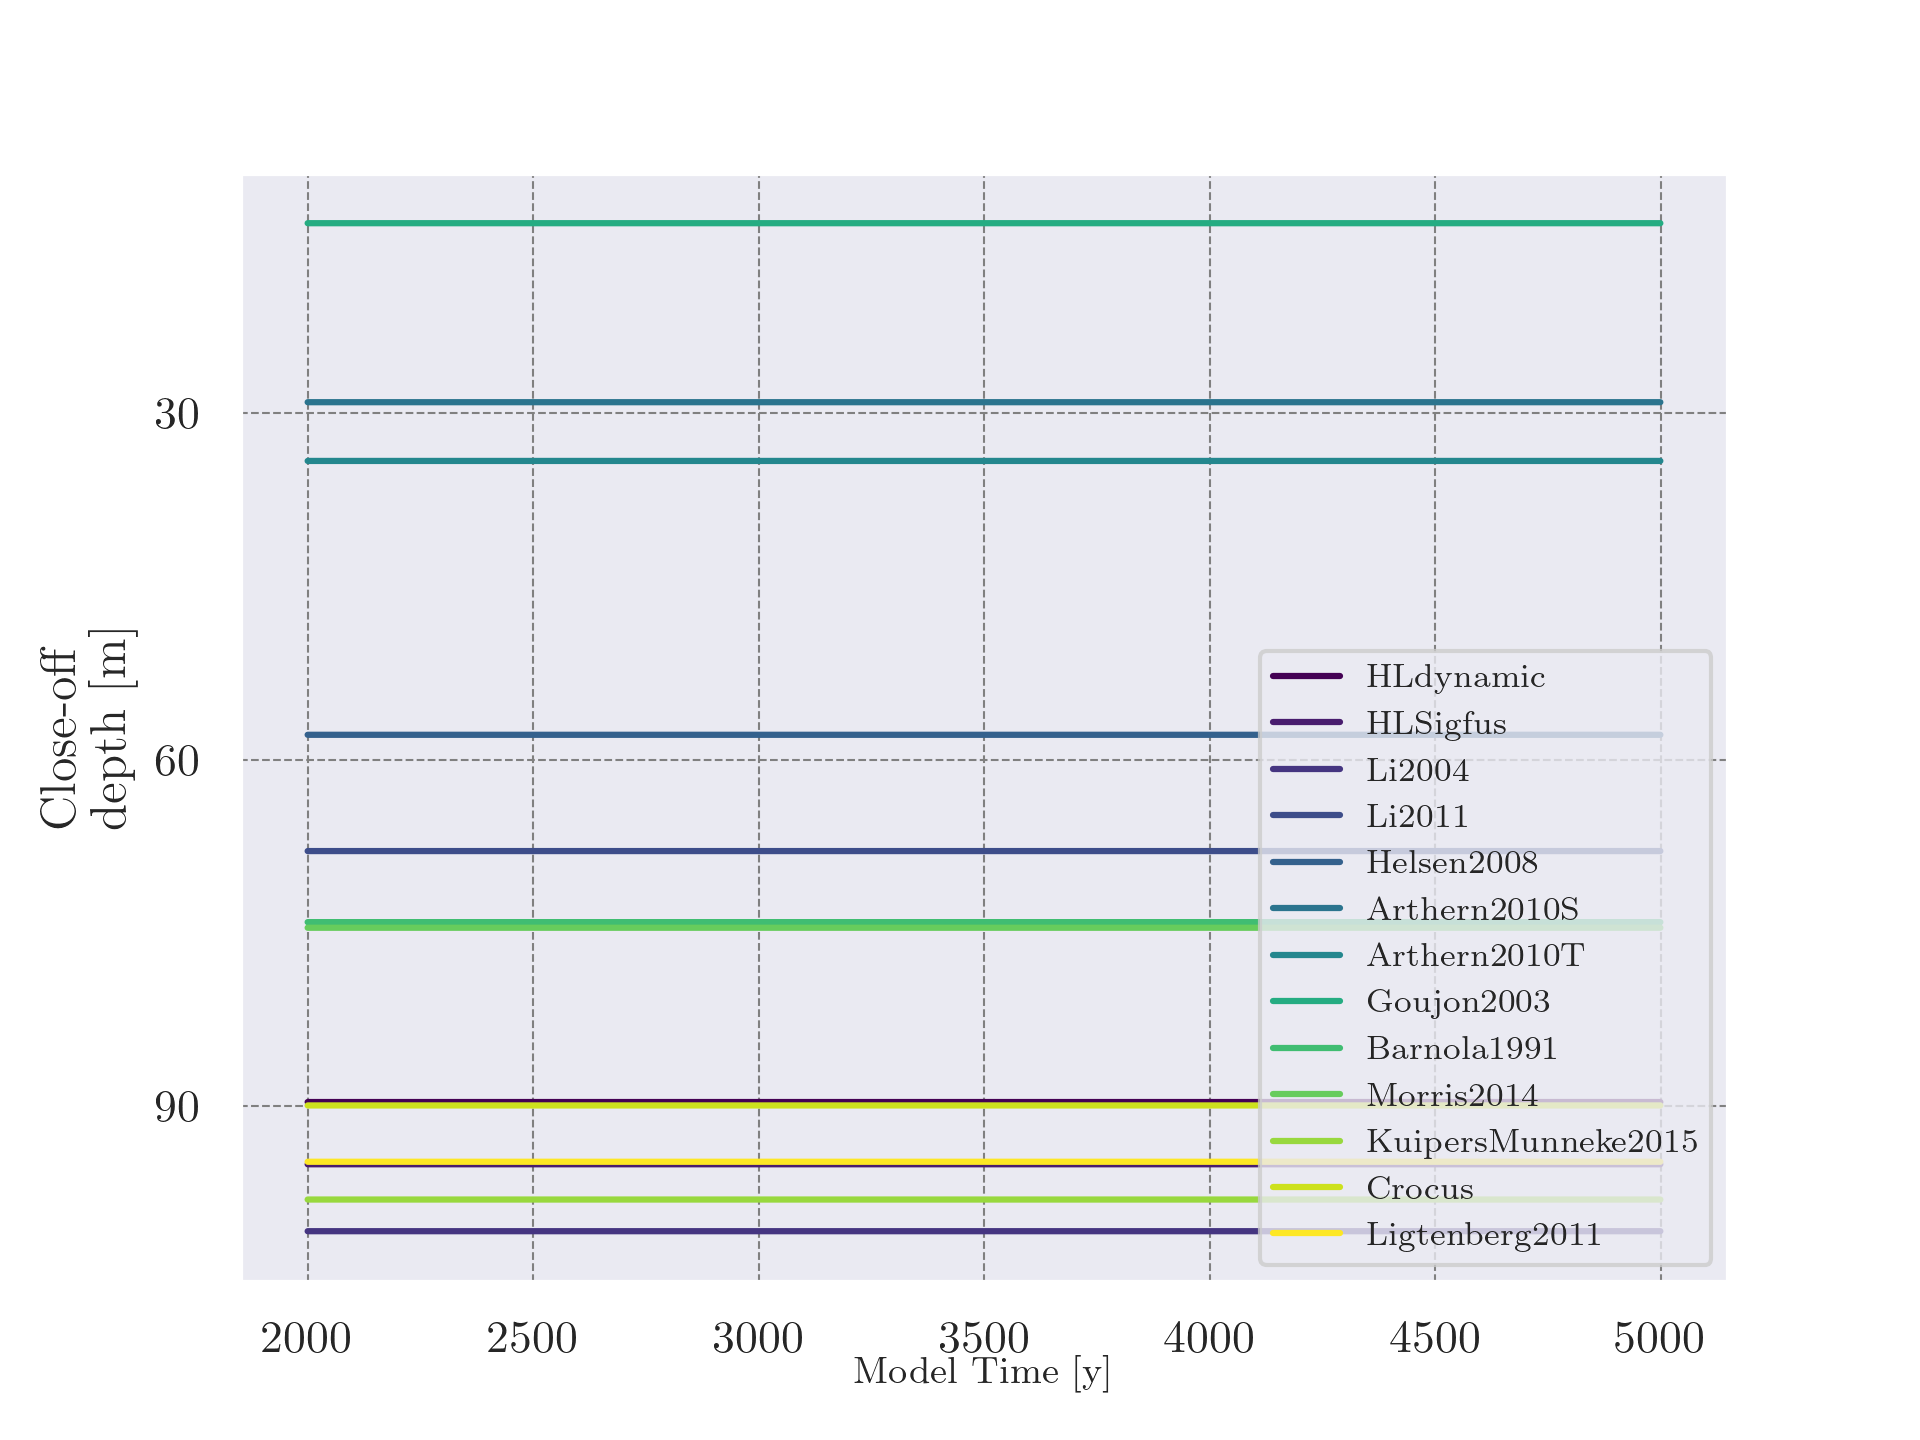
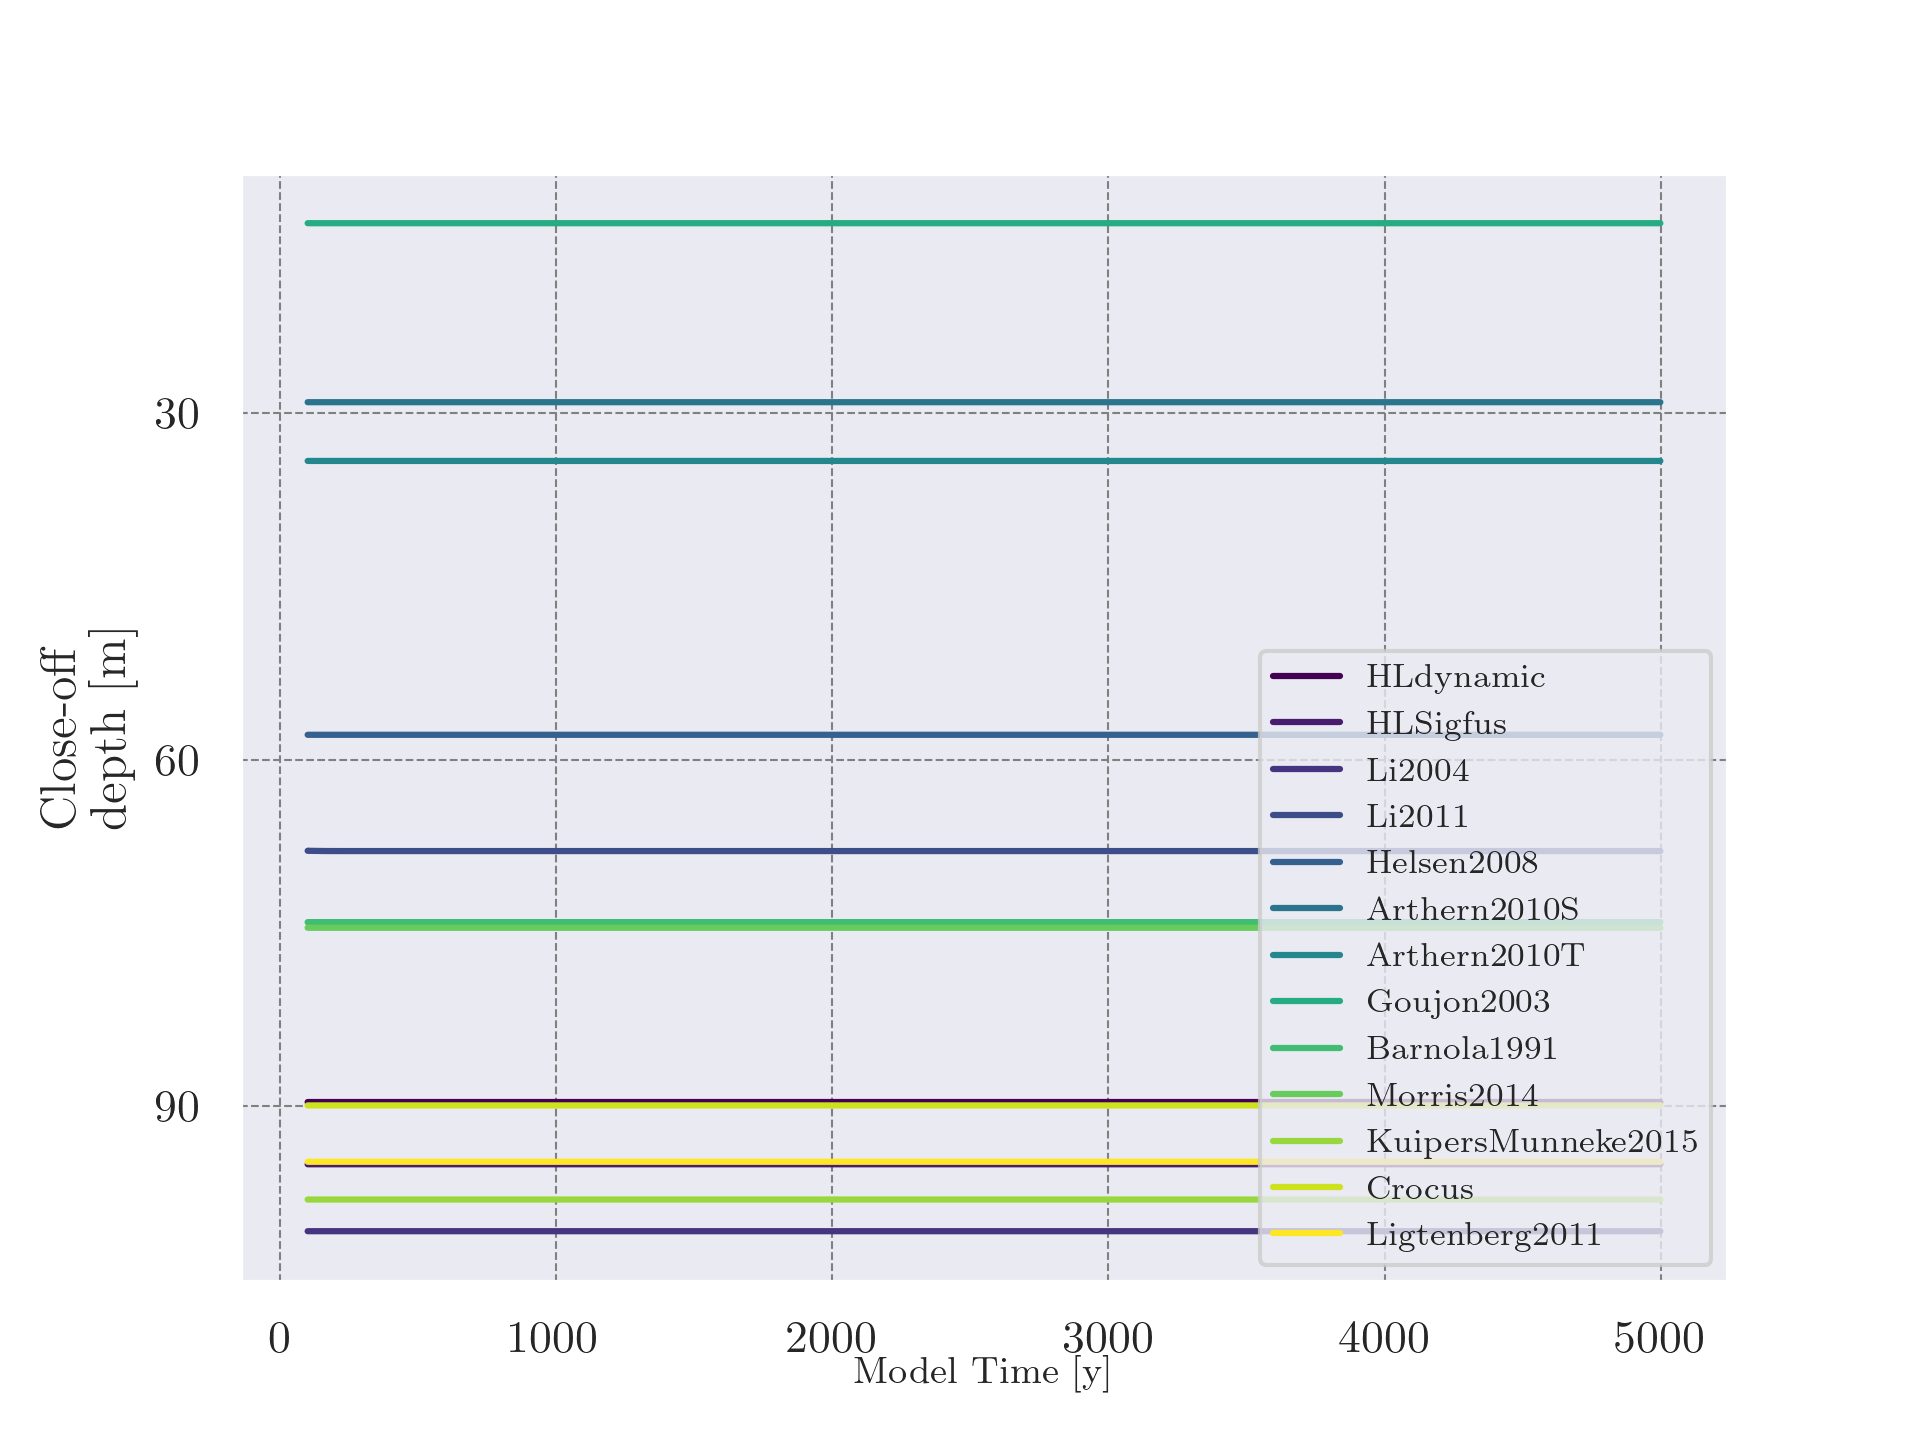
Test

diff --git a/Python/EquiCompare.py b/Python/EquiCompare.py
@@ -33,19 +33,30 @@ def find_constant_row(matrix, tolerance=1e-6):
       return i
   return -1
 
+def find_first_constant(vector, tolerance):
+  for i in range(1, len(vector)):
+    if abs(vector[i] - vector[i-1]) <= tolerance:
+      return i
+  return -1
+
 
 class CoD_plotter():
 
-    def __init__(self,filepath=None,rate=None,KtC=False):
+    def __init__(self,filepath=None,rate=None,Exs=None,KtC=False):
         self.filepath = filepath
         self.KtC = KtC
-  
+        #if Exs == 'Acc/':
+        #    fig, ax = plt.subplots(3, sharex=False, sharey=False)
+        #else:
         fig, ax = plt.subplots(4, sharex=False, sharey=False)
         label = rate
         fig.set_figheight(15)
         fig.set_figwidth(8)
         Rates = np.array([int(x[:-1]) for x in rate])
         alpha = [1, 0.6, 0.3]
+        alphas = [1,0.75,0.5,0.25]
+        ax[2].invert_yaxis()
+        ax[3].invert_yaxis()
         for k in range(len(self.filepath)):
             if not os.path.exists(self.filepath[k]):
                 print('Results file does not exist', self.filepath[k][40:])
@@ -84,12 +95,20 @@ class CoD_plotter():
             ax[2].grid(linestyle='--', color='gray', lw='0.5')
             ax[2].set_ylabel(r'\centering Close-off \newline\centering depth [m]')
             #ax[2].set_yticks(np.arange(30,120,step=30))
-            ax[2].invert_yaxis()
+            Time_Const = self.model_time[find_first_constant(self.close_off_depth[1010:], tolerance=1e-5)+1010]
+            ax[2].axvline(x=Time_Const,color=cmap(cmap_intervals[k]),alpha=0.5,label=label[k]+str(Time_Const-2000))
             #ax[2].legend(loc='lower right', fontsize=8)
             ax[2].set_xlabel(r"Model Time [y]", labelpad=-1.5, fontsize=9)
+            ax[2].legend(loc='lower right', fontsize=8)
+            print(self.model_time[1000:])
             
+
+    
             Times = np.array([0,Rates[k]+500,len(self.model_time)-1])
-            print(Times)
+            #print(Times)
+            #if Exs == 'Acc/':
+            #    continue
+            #else:
             for i in range(len(alpha)):
                 
                 ax[3].plot(self.temperature[Times[i]][1:], self.z[Times[i]][1:], color=cmap(cmap_intervals[k]), alpha=alpha[i], label=label[k]+str(Times[i]))
@@ -99,16 +118,16 @@ class CoD_plotter():
                 else:
                     ax[3].set_ylabel(r"Depth")
                 #ax[3].legend(loc='lower right', fontsize=8)
-                ax[2].set_xlabel(r"Temperature [K]", labelpad=-1.5, fontsize=9)
-                
+                ax[3].set_xlabel(r"Temperature [K]", labelpad=-1.5, fontsize=9)
+            ax[3].legend(loc='lower right', fontsize=8)
+
                 
                 
              
                
             #plt.xlabel(r"Model Time [y]", labelpad=-1.5, fontsize=9)
             
-        ax[3].legend(loc='lower right', fontsize=8)
-        ax[2].legend(loc='lower right', fontsize=8)
+        
         f.close()
        
         return
@@ -152,7 +171,7 @@ for j in range(len(Exp)):
         path = [rfolder + m+n + '.hdf5' for m,n in zip(T,P)]
         print(Exp[j],Models[i])
         #print(path)
-        Current_plot = CoD_plotter(filepath = path,rate = Rates)
+        Current_plot = CoD_plotter(filepath = path,rate = Rates,Exs = Exp[j])
         plt.savefig('CoDEqui/'+ str(Exp[j][:-1]) + str(Models[i][:-1]) +'.png',dpi=300)
         plt.close('all')
 

diff --git a/Python/Constant_Forcing_compare.py b/Python/Constant_Forcing_compare.py
@@ -18,6 +18,7 @@ def Run(Model,site):
         
     data = json.load(file)
     data['grid_outputs'] = False
+    data['AutoSpinUpTime'] = False
     data['resultsFileName'] = str(Model) + str(site) + '.hdf5'
     data['resultsFolder'] = 'CFMoutput/Constant_Forcing/' + str(site) + '/' + str(Model)
     data['InputFileFolder'] = 'CFMinput/Constant_Forcing'
@@ -46,24 +47,24 @@ def Run(Model,site):
 
 def csv_gen(site):
     if site == 'NGRIP':    
-        Time = np.array([250,2000,5000])
+        Time = np.array([1,3000,5000])
         Temp = np.full(len(Time),242.05)
         Bdot = np.full(len(Time),1.9e-1)
     elif site == 'Fuji':    
-        Time = np.array([250,2000,5000])
+        Time = np.array([1,3000,5000])
         Temp = np.full(len(Time),215.85)
         Bdot = np.full(len(Time),2.8e-2)
         #print(np.std(Bdot))
     elif site == 'Siple':    
-        Time = np.array([250,2000,5000])
+        Time = np.array([1,3000,5000])
         Temp = np.full(len(Time),247.75)
         Bdot = np.full(len(Time),1.3e-1)
     elif site == 'DE08':    
-        Time = np.array([250,2000,5000])
+        Time = np.array([1,3000,5000])
         Temp = np.full(len(Time),254.2)
         Bdot = np.full(len(Time),1.2)
     elif site == 'DML':
-        Time = np.array([250,2000,5000])
+        Time = np.array([1,3000,5000])
         Temp = np.full(len(Time),234.15)
         Bdot = np.full(len(Time),7.0e-2)
     
@@ -83,7 +84,7 @@ def csv_gen(site):
 file = open('CFM/CFM_main/Constant_Forcing.json')
 data = json.load(file)
 Models = data['physRho_options']
-Sites = ['DML']#['NGRIP','Fuji','Siple','DE08']#DML
+Sites = ['NGRIP','Fuji','Siple','DE08','DML']
 
 for Site in Sites:
     path = Path('CFM/CFM_main/CFMinput/Constant_Forcing/' + Site)

diff --git a/Python/mytable.tex b/Python/mytable.tex
@@ -9,20 +9,20 @@
 Temp & 242.05 & 215.85 & 247.75 & 254.2 & 234.15 \\
 Acc & 0.19 & 0.028 & 0.13 & 1.2 & 7.0 \\
 CoD & 78.0 & 104.0 & 57.0 & 85.0 & 74.0 \\
-HLD & 71.3 & 113.2 & 48.9 & 89.6 & 67.7 \\
-HLS & 71.6 & 113.2 & 49.1 & 95.0 & 67.8 \\
-Li4 & 51.4 & 69.2 & 54.4 & 100.8 & 54.3 \\
-Li1 & 70.9 & 141.5 & 47.6 & 67.9 & 79.9 \\
-HEL & 68.3 & 107.7 & 61.2 & 57.8 & 80.3 \\
-ArtS & 49.8 & 138.1 & 40.0 & 29.0 & 68.3 \\
-ArtT & 55.4 & 110.3 & 43.0 & 34.1 & 75.0 \\
-Li5 & 64.6 & 118.5 & 46.1 & 0.0 & 72.1 \\
-GOU & 62.6 & 107.0 & 46.6 & 13.6 & 65.1 \\
-BAR & 69.3 & 112.3 & 53.0 & 74.0 & 71.0 \\
-MOR & 56.8 & 101.8 & 38.2 & 74.5 & 50.6 \\
-KM & 75.7 & 137.7 & 55.2 & 98.1 & 81.8 \\
-CRO & 78.3 & 136.0 & 56.3 & 89.9 & 82.8 \\
-LIG & 61.4 & 116.7 & 44.1 & 94.8 & 64.0 \\
+HLD & 71.5 & 113.2 & 48.9 & 89.6 & 67.8 \\
+HLS & 71.7 & 113.2 & 49.0 & 95.0 & 67.8 \\
+Li4 & 54.5 & 108.9 & 50.6 & 100.8 & 63.7 \\
+Li1 & 71.9 & 114.4 & 50.4 & 67.9 & 70.0 \\
+HEL & 67.3 & 113.3 & 53.5 & 57.8 & 70.2 \\
+ArtS & 58.1 & 114.8 & 44.7 & 29.0 & 67.8 \\
+ArtT & 38.1 & 87.1 & 27.1 & 34.1 & 33.4 \\
+Li5 & 68.5 & 113.4 & 49.0 & 0.0 & 68.8 \\
+GOU & 62.7 & 109.1 & 46.4 & 13.6 & 63.9 \\
+BAR & 68.9 & 111.8 & 51.9 & 74.0 & 68.2 \\
+MOR & 66.2 & 107.5 & 44.9 & 74.5 & 63.0 \\
+KM & 73.3 & 115.3 & 52.1 & 98.1 & 70.6 \\
+CRO & 73.4 & 114.2 & 51.9 & 89.9 & 70.0 \\
+LIG & 65.3 & 113.6 & 46.6 & 94.8 & 66.9 \\
 \bottomrule
 \end{tabular}
 \end{table}

diff --git a/Python/reader.py b/Python/reader.py
@@ -60,14 +60,16 @@ def find_first_constant(vector, tolerance):
   return -1
 
 
-
-
 timesteps,stps,depth,density,temperature,diffusivity,forcing,age,climate,d15N2,d40Ar,Bubble = read('CFM/CFM_main/CFMoutput/Equi/Temp/HLdynamic/50y/')
 from matplotlib import pyplot as plt
+fig,ax = plt.subplots(1)
+ax.invert_yaxis()
 
-plt.plot(temperature[:, 1:].T)
+ax.plot(timesteps,Bubble)
+Time_Const = timesteps[find_first_constant(Bubble[1010:], tolerance=1e-5)+1010]
+ax.axvline(Time_Const,color='k',label=str(Time_Const))
 Time = find_constant_row(temperature[1002:,1:],tolerance = 1e-2)
-
+ax.legend
 
 
 

diff --git a/Python/CFM/CFM_main/firn_density_spin.py b/Python/CFM/CFM_main/firn_density_spin.py
@@ -264,6 +264,7 @@ class FirnDensitySpin:
             try:
                 zz          = np.min(self.z[self.rho > 850.0])
                 self.years  = int(zz / self.bdot0)
+                print('Using Autospinup for ' + str(self.years))
             except ValueError:
                 print("auto spin up error; using spin up time from json")
                 self.years = self.c['yearSpin'] # number of years to spin up for

diff --git a/Python/Constant_Forcing_COD.py b/Python/Constant_Forcing_COD.py
@@ -175,5 +175,4 @@ with open('mytable.tex', 'w') as tf:
 
 
 
-
       
